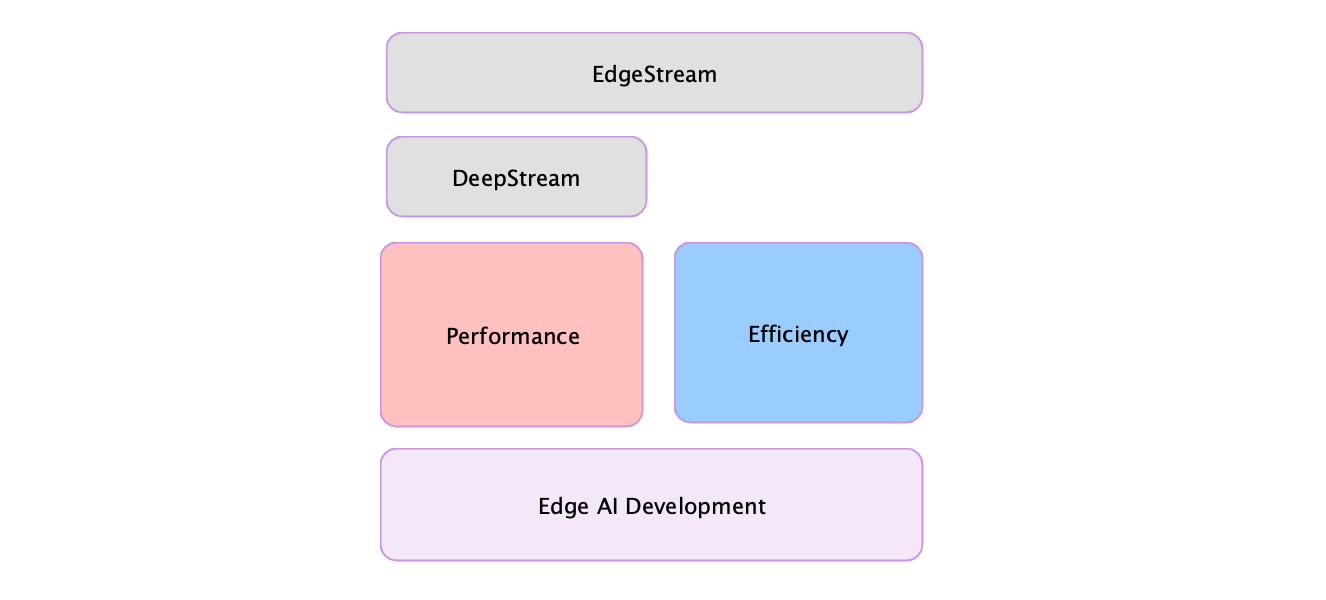
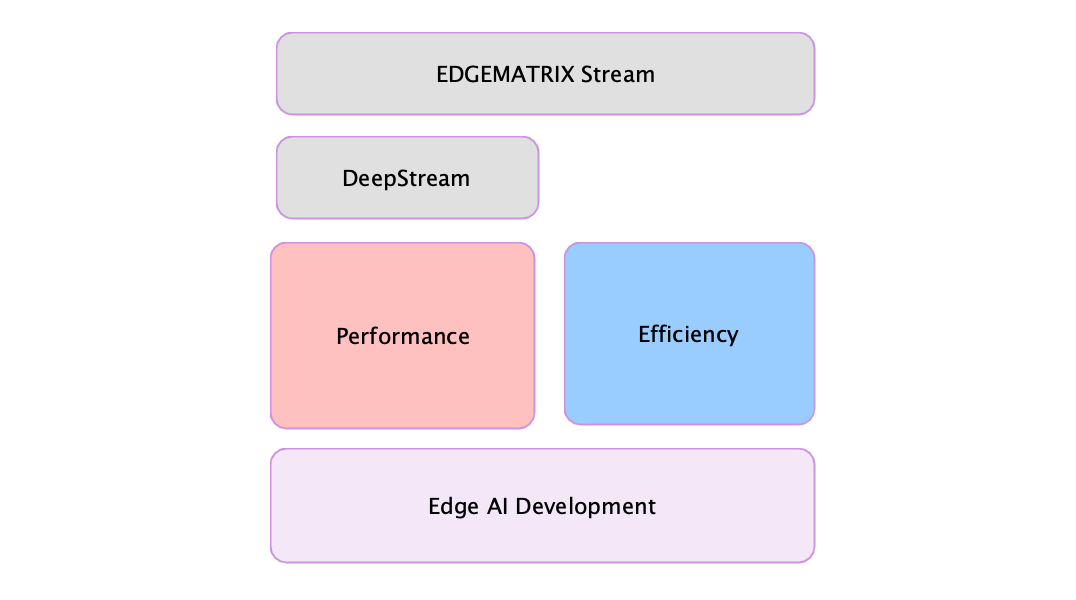
#9 update overview

diff --git a/conf.py b/conf.py
@@ -20,13 +20,13 @@
 # -- Project information -----------------------------------------------------
 
 project = 'EDGEMATRIX Stream Toolkit Tutorial'
-copyright = '(C) 2019 EDGEMATRIX, Inc.'
+copyright = '(C) 2020 EDGEMATRIX, Inc.'
 author = 'Takenori Sato'
 
 # The short X.Y version
-version = '1.3'
+version = '1.5'
 # The full version, including alpha/beta/rc tags
-release = '1.3.0'
+release = '1.5.1'
 
 
 # -- General configuration ---------------------------------------------------

diff --git a/overview.rst b/overview.rst
@@ -1,54 +1,58 @@
 Overview
 ==================================
 
+Welcome to the EDGEMATRIX Stream Toolkit Tutorial.
+
+As an overview, we'll walk you through some basic concept and design you need to understand to build your own app.
+
+1. The concept of Edge AI
+2. EDGEMATRIX Service
+3. EDGEMATRIX Stream
+4. The development process using the EDGEMATRIX Toolkit
+
+==========================================
+1. The concept of Edge AI
+==========================================
+
+    .. image:: images/overview/edgeai_concept.png
+       :align: center
+
+What do you come up with when you hear "Edge AI"? It could be a place where an AI is executed. It could mean a way how AIs interact with each other. In our concept, there is one unique axis, which is a type of Network where an AI is executed. This is loosely coupled with a location. As a range of Network becomes wider, it is more likely a location is outdoor and far from cities. Another axis is a common concept of "Edge AI", Reatime-ness. As you can see, these are overlapped, but our core concept of "Edge AI" means an AI that is likely placed and executed outside and requires realtimeness.
+
+==========================================
+2. EDGEMATRIX Service
+==========================================
+
     .. image:: images/overview/edge_ai_service.png
        :align: center
 
 
-EDGEMATRIX Stream Toolkit is a software toolkit released by `EDGEMATRIX, Inc <https://edgematrix.com/>`_ (EMI),
-and which is defined as folows::
-
-    An EDGEMATRIX Stream Toolkit is a tool installed on an Toolkit Box that allows an AI model developer 
-        to make an EDGEMATRIX Stream Application Package (EAP)
-        to run it locally for testing purposes
-        to submit a tested EAP to sell on the EMI's market place
-
-This would make you wonder about many questions. 
-What is an Toolkit Box? EAP? The EMI's market place?
-
-They will be covered later in details, but more importantly, please note that this tool is designed for an AI model developer.
-
-Until when deploying a trained model binary on an edge, it has to be built as an application and integrated with a service for the monitoring. 
-Especially, EMI focuses on an IVA (Intelligent Video Analytics) task that inevitably requires video streaming technologies.
-For example, `GStreamer <https://gstreamer.freedesktop.org/>`_ is the most proven library of such a streaming technology,
-but which is a completely different beast from an AI model development.
-
-Yet, the most competitive intellectual property likely remains around such a trained model binary.
-
-So, EMI provides an Edge AI Service so that an AI model developer could focus on an AI model development.
-Such an invaluable asset is wrapped by an EAP that can be integrated dynamically with the service for an end user.
-And EMI will take care of various interactions between end users.
-
-The overal look of the EMI's Edge AI service is as shown above.
-
-Any EAP developed with the EDGEMATRIX Stream Toolkit can benefit from the service. There are three core benefits.
+The EDGEMATRIX Service is an Edge AI Security Platform with the following features.
 
 1. Device Remote Management (OTA, EAP License, EAP Installation/Uninstallation, Device Status, Terminal Emulation)
 2. Security (Network Security, Device Authentication, Secondary Drive Encryption, EAP Encryption, AI Model Binary Encryption)
 3. EdgeView (WebRTC Realtime Stream even from a device behind a NAT [no public address])
+* EAP stands for EDGEMATRIX stream Application Package
 
-==========================================
+Please note that every `AI Box <https://edgematrix.com/business/box/>`_ and every client are placed behind NATs and interact with others by peer to peer. This is our assumption of the said "Edge AI" from the Network's point's of view. 
+
+Imagine a camera placed outdoor. This shouldn't be difficult. Then, add an AI Box next to it. That's where your app is executed!
+Such an AI Box is not exposed through a public address nor any open ports. But you and your end user still access to it to manage a device, streams (cameras), and installed apps. And it will notify end users of any events generated by your apps. Then, an end user can directly talk to a device to view a live or a recorded stream.
+
+Does that sound nice? Good. You have your own trained model? Perfect, then, a Toolkit Box helps you build your own "Edge AI" app that we call EAP.
+
+^^^^^^^^^^^^^^^^^^^^^^^^^^^^^^^^^^^^^^^^^^^^^^^^^^^^^^^^
 Toolkit Box
+^^^^^^^^^^^^^^^^^^^^^^^^^^^^^^^^^^^^^^^^^^^^^^^^^^^^^^^^
+
+The Toolkit Box is a type of AI Box, which is used to build your own app with your precious trained model binary.
+
+It comes with a GUI toolkit application with templates for you to start quickly. This tutorial is about the GUI toolkit software that allows you to make an EAP with your own precious trained model binary.
+
+Before diving into the tutorial, core components running on "Edge AI" will be explained in the next section.
+
 ==========================================
-
-EMI provides an end-to-end service including an edge device called `AI Box <https://edgematrix.com/business/box/>`_.
-
-A Toolkit Box is a type of AI Box built for an AI Model Developer, which comes with the EDGEMATRIX Stream Toolkit.
-
-If you are interested, please contact our sales.
-
-==========================================
-EDGEMATRIX Stream
+3. EDGEMATRIX Stream
 ==========================================
 
 The EDGEMATRIX Stream is the EMI's core streaming engine that:
@@ -64,7 +68,14 @@ Here's the picture of the EDGEMATRIX Stream's concept.
 As you can see, the EDGEMATRIX Stream relies on the NVIDIA's DeepStream about performance.
 Then, on top of it, the EDGEMATRIX Stream provides both of performance and efficiency over an Edge AI development.
 
-Next, here's the technical overview of the EDGEMATRIX Stream.
+GStreamer and DeepStream's GStreamer plugins are development libraries so you can build your own pipeline. But a pipeline typically ends up with a fixed state of the art pipeline only works for a particular purpose. You'll find exponentially it becomes complicated if you start adding more plugins to make it work for various scenarios. So, how is a pipeline of the EDGEMATRIX Stream designed to work in a flexible way? Here's the picure of two typical pipelines.
+
+    .. image:: images/overview/edgematrix_stream_pipeline.png
+       :align: center
+
+An pipeline of the EDGEMATRIX Stream consists of many sub pipelines and they are dynamically linked/unlinked as necessary. Also, each sub pipeline can be shared by multiple other sub pipeline for efficient processing line encoding and decoding. Even a sub pipeline, for example, an input pipeline from a RTSP stream, can be shared by two difference pipelines. This is the major design advantage why a pipeline of the EDGEMATRIX Stream can handle many tasks concurrently. 
+
+Next, here's the component diagram of the EDGEMATRIX Stream.
 
     .. image:: images/overview/edgestream_component.png
        :align: center
@@ -79,7 +90,7 @@ A single EDGEMATRIX Stream instance consists of three components.
 EDGEMATRIX Stream Application Package
 ^^^^^^^^^^^^^^^^^^^^^^^^^^^^^^^^^^^^^^^^^^^^^^^^^^^^^^^^
 
-An EDGEMATRIX Stream Application Package is a encrypted file with a public key of a licensed device that consists of the followings.
+An EDGEMATRIX Stream Application Package (EAP) is an encrypted file with a public key of a licensed device that consists of the followings.
 
 * A config file
 * A Python file that contains a developer defined callback function
@@ -87,16 +98,16 @@ An EDGEMATRIX Stream Application Package is a encrypted file with a public key o
 
 A stream config file contains not only various information about this application package, but also does event item definitions.
 
-A callback function in a Python file is called back when a signal is generated from an EDGEMATRIX Stream pipeline, then generates events as defined in the event definitions.
+A callback function in a Python file is called back when a signal is generated from an EDGEMATRIX Stream pipeline, then generates events as defined in the event and options definitions.
 
-An EdgeSteam pipeline is constructed based on the information defined in a config file, by referring to files in a resource folder.
+A pipeline of the EDGEMATRIX Stream is constructed based on the information defined in a config file, by referring to files in a resource folder.
 
 ^^^^^^^^^^^^^^^^^^^^^^^^^^^^^^^^^^^^^^^^^^^^^^^^^^^^^^^^
 EDGEMATRIX Stream Controller
 ^^^^^^^^^^^^^^^^^^^^^^^^^^^^^^^^^^^^^^^^^^^^^^^^^^^^^^^^
 
-An EDGEMATRIX Stream Controller is a controller class that create an EDGEMATRIX Stream pipeline by reading a config file.
-Whenever a signal is generated, it calls a callback function, receive events, then execute an action if such an event matches to an event.
+An EDGEMATRIX Stream Controller is a controller class that create a pipeline of the EDGEMATRIX Stream by reading a config file.
+Whenever a signal is generated, it calls a callback function, receive events, then execute an action if such an event matches to a condition defined by an end user.
 
 What kind of event is generated is up to an application, but what action is executed is up to an end user.
 
@@ -111,20 +122,34 @@ These interactions are illustrated as below.
 EDGEMATRIX Stream Pipeline
 ^^^^^^^^^^^^^^^^^^^^^^^^^^^^^^^^^^^^^^^^^^^^^^^^^^^^^^^^
 
-An EDGEMATRIX Stream pipeline is a GStreamer pipeline running inside a GStremaer server process.
+A pipeline of the EDGEMATRIX Stream was explained above. But there is a GStremaer server process that runs multiple pipelines of the EDGEMATRIX Stream. 
 
-By running multiple pipelines inside a server process, it can efficiently share common elements like RTSP, decoder, and encoder.
+This is why an input sub pipeline can be shared by two different pipelines. It is based on one of our visionary pipelines as below.
 
-You will find this architecture is critical when multiple webrtc clients connect to the same stream.
+A) A single 4K RTSP stream shared among several EDGEMATRIX Stream pipelines
 
-Also, we have two visionary pipelines as our goals.
+    .. image:: images/overview/4K_multiple_edgestreams.png
+       :align: center
 
-1. A single EDGEMATRIX Stream pipeline consists of multiple AI model developers
+Also, we have another visionary pipelines that consists of various components provided by many vendors. This idea comes from the today's problem that one vendor can not provide various trained models, but typically only a few. So, in order to meet various customer requirements, a pipeline would consists of many components provided by various vendors.
+
+B) A single EDGEMATRIX Stream pipeline consists of multiple AI model developers
 
     .. image:: images/overview/multiple_ai_vendors.png
        :align: center
 
-2. A single 4K RTSP stream shared among several EDGEMATRIX Stream pipelines
+===================================================================
+4. The development process using the EDGEMATRIX Toolkit
+===================================================================
 
-    .. image:: images/overview/4K_multiple_edgestreams.png
-       :align: center
+At the end of this chapter, a typical development process using the EDGEMATRIX Stream Toolkit is explained.
+
+#. pick up your precious trained model binary (such a trained model binary should be trained with a decent amount of training data to cover most of possible variations for the task)
+#. convert the model binary to an engine file of TensorRT
+#. wrap it as a GStreamer element called nvinfer to make it work in a pipeline
+#. run your trained model as a nvinfer in a simple GStreamer pipeline (use gst-launch)
+#. launch the Toolkit GUI application to make your own app as an EAP out of available templates
+#. design your events and options
+#. write your callback
+#. test your EAP with the Toolkit
+#. submit your EAP
